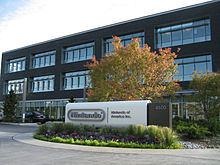
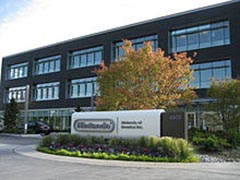
Branches_Images
Changed size of images  and made them PNGs

diff --git a/Branches.html b/Branches.html
@@ -34,45 +34,45 @@
 		<!--Table-->
 		<div class="container">
 			<div class="row">
-				<div class="col-sm"><img src="Images/Kyoto.jpg" alt="Kyoto Headquarters" width="200" height="100" class="img-fluid"></div>
-				<div class="col-sm"><img src="Images/Kyoto_M.png" alt="Kyoto_Map" width="200" height="100" class="img-fluid"></div>				
-				<div class="col-sm">Nintendo HQ Kyoto, Japan</div>
+				<div class="col mt-2 mb-2"><img src="Images/Kyoto.png" alt="Kyoto Headquarters" width="auto" height="auto" class="img-fluid"></div>
+				<div class="col mt-2 mb-2"><img src="Images/Kyoto_M.png" alt="Kyoto_Map" width="auto" height="auto" class="img-fluid"></div>				
+				<div class="col mt-2 mb-2">Nintendo HQ Kyoto, Japan</div>
 			</div>	
 			
 			<br>
 			<br>
 			
 			<div class="row">
-				<div class="col-sm"><img src="Images/Tokyo.jpg" alt="Tokyo Location" width="200" height="100" class="img-fluid"></div>
-				<div class="col-sm"><img src="Images/Tokyo_M.png" alt="Tokyo_Map" width="200" height="100" class="img-fluid"></div>
-				<div class="col-sm">Nintendo Office Tokyo, Japan</div>
+				<div class="col mt-2 mb-2"><img src="Images/Tokyo.png" alt="Tokyo Location" width="auto" height="auto" class="img-fluid"></div>
+				<div class="col mt-2 mb-2"><img src="Images/Tokyo_M.png" alt="Tokyo_Map" width="auto" height="auto" class="img-fluid"></div>
+				<div class="col mt-2 mb-2">Nintendo Office Tokyo, Japan</div>
 			</div>
 			
 			<br>
 			<br>
 					
 			<div class="row">
-				<div class="col-sm"><img src="Images/Redmond.jpg" alt="Redond Location" width="200" height="100" class="img-fluid"></div>
-				<div class="col-sm"><img src="Images/Redmond_M.png" alt="Redmond_Map" width="200" height="100" class="img-fluid"></div>
-				<div class="col-sm">Nintendo of America HQ Redmond, Washington</div>
+				<div class="col mt-2 mb-2"><img src="Images/Redmond.png" alt="Redond Location" width="auto" height="auto" class="img-fluid"></div>
+				<div class="col mt-2 mb-2"><img src="Images/Redmond_M.png" alt="Redmond_Map" width="auto" height="auto" class="img-fluid"></div>
+				<div class="col mt-2 mb-2">Nintendo of America HQ Redmond, Washington</div>
 			</div>
 			
 			<br>
 			<br>
 			
 			<div class="row">
-				<div class="col-sm"><img src="Images/Frankfurt.jpg" alt="Frankfurt Location" width="200" height="100" class="img-fluid"></div>
-				<div class="col-sm"><img src="Images/Frankfurt_M.png" alt="Frankfurt_Map" width="200" height="100" class="img-fluid"></div>
-				<div class="col-sm">Nintendo of Europe HQ Frankfurt, Germany</div>
+				<div class="col mt-2 mb-2"><img src="Images/Frankfurt.png" alt="Frankfurt Location" width="auto" height="auto" class="img-fluid"></div>
+				<div class="col mt-2 mb-2"><img src="Images/Frankfurt_M.png" alt="Frankfurt_Map" width="auto" height="auto" class="img-fluid"></div>
+				<div class="col mt-2 mb-2">Nintendo of Europe HQ Frankfurt, Germany</div>
 			</div>
 			
 			<br>
 			<br>
 			
 			<div class="row">
-				<div class="col-sm"><img src="Images/Libson.jpg" alt="Libson Location" width="80" height="100" class="img-fluid"></div>
-				<div class="col-sm"><img src="Images/Lisbon_M.png" alt="Libson_Map" width="200" height="100" class="img-fluid"></div>
-				<div class="col-sm">Nintendo of Europe Office Libson, Portugal</div>
+				<div class="col mt-2 mb-2"><img src="Images/Libson.png" alt="Libson Location" width="auto" height="auto" class="img-fluid"></div>
+				<div class="col mt-2 mb-2"><img src="Images/Lisbon_M.png" alt="Libson_Map" width="auto" height="auto" class="img-fluid"></div>
+				<div class="col mt-2 mb-2">Nintendo of Europe Office Libson, Portugal</div>
 			</div>
 		</div>
 	</div>
